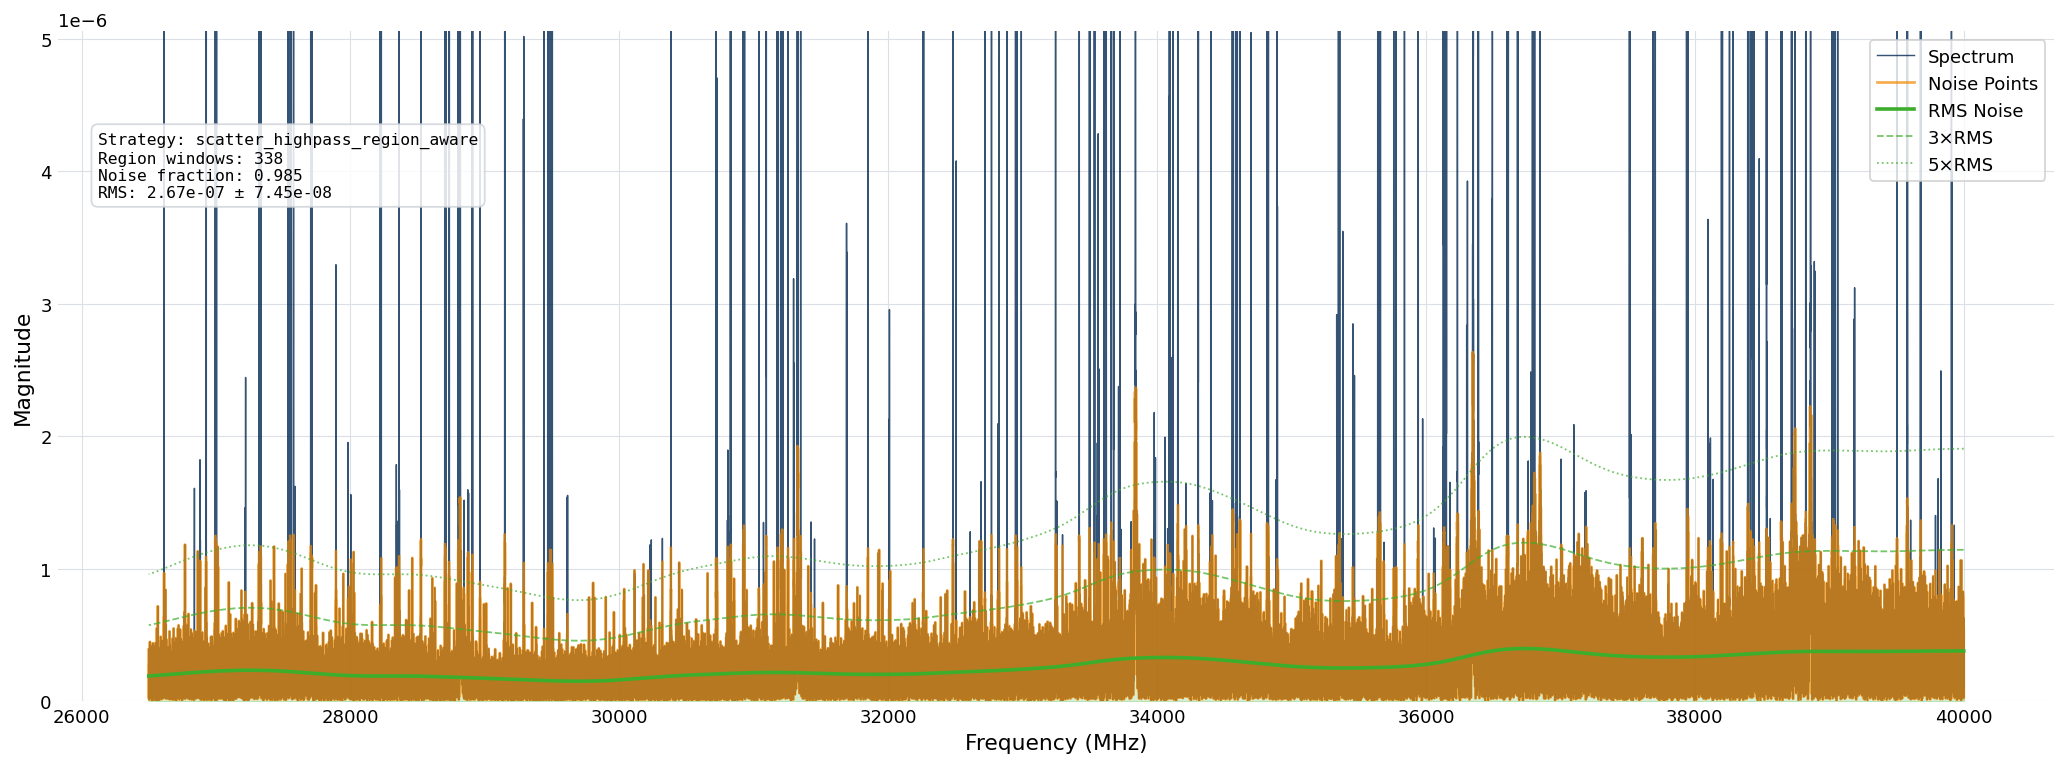
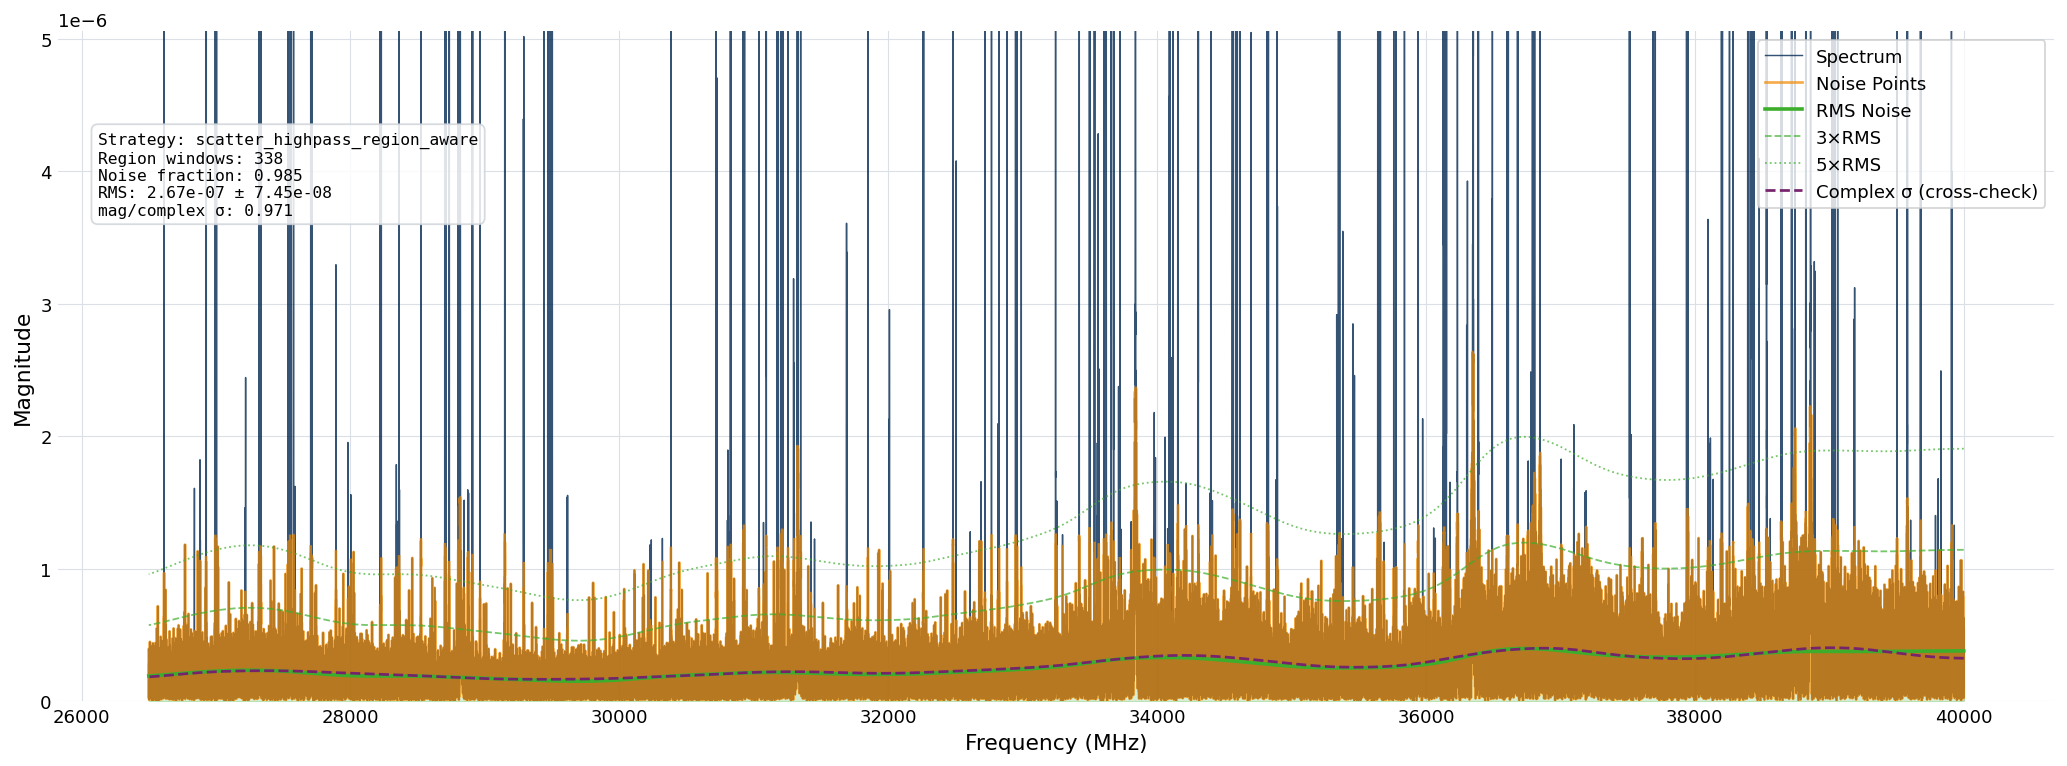
Add a complex-domain sigma cross-check to Stage 2 noise
The scatter estimator works on the magnitude spectrum, where pure noise is
Rayleigh-distributed and a Rician regime correction is needed to recover sigma
-- machinery that carries a small intrinsic low bias. Compute sigma
independently from the real and imaginary parts over the same noise bins, where
pure noise is symmetric zero-mean Gaussian needing no correction, and fold the
magnitude/complex ratio into the noise diagnostics with a divergence warning.
Overlay the complex curve and the ratio on the noise plot. The estimate is a
read-only guardrail against both the magnitude low bias and the one-sided clip;
the primary algorithm is unchanged.

Claude-Session: https://claude.ai/code/session_012itsht2HzvW34wXcnMVEm4

diff --git a/src/ftmwpipeline/preprocessing/noise_estimation.py b/src/ftmwpipeline/preprocessing/noise_estimation.py
@@ -98,6 +98,14 @@ SCATTER_CONVOLVE_MHZ = (
     200.0  # Gaussian σ (MHz) of the 2nd, step-removing pass (0 = off)
 )
 
+# Complex-domain cross-check guardrail: warn when the magnitude σ and the
+# independent Re/Im σ (see ``estimate_noise_complex_scatter``) disagree by more
+# than this fraction. The magnitude estimator runs ~4–6 % below the complex
+# estimate even on clean data (its Rician/pedestal machinery carries an
+# intrinsic low bias the complex domain avoids), so the threshold sits above
+# that expected baseline and fires only on a genuine anomaly.
+SCATTER_COMPLEX_DIVERGENCE_WARN = 0.12
+
 # Fixed mid-regime σ_c/scatter factor used when ``region_aware=False`` (the
 # Rayleigh-to-under-line endpoints span 1.0–1.47; 1.20 is the validated
 # mid-regime compromise — biased ~±15 % in a regime-dependent way, which is
@@ -523,6 +531,100 @@ def estimate_noise_scatter(
     return NoiseResult(rms_noise=sigma, noise_mask=keep, bin_info=bin_info)
 
 
+def estimate_noise_complex_scatter(
+    frequencies: np.ndarray,
+    complex_spectrum: np.ndarray,
+    noise_mask: np.ndarray,
+    *,
+    window_mhz: float = SCATTER_WINDOW_MHZ,
+    smoothing_mhz: float = SCATTER_SMOOTHING_MHZ,
+    smoothing_percentile: float = SCATTER_SMOOTHING_PERCENTILE,
+    convolve_mhz: float = SCATTER_CONVOLVE_MHZ,
+) -> np.ndarray:
+    """Independent complex-domain σ_x estimate, a cross-check on the magnitude one.
+
+    The real and imaginary parts of pure complex-Gaussian noise are each
+    ``N(0, σ_c)`` -- symmetric, zero-mean, with no Rayleigh skew, no leakage
+    pedestal, and no Rician regime to correct for. So over the bins the magnitude
+    pass already classed as noise (``noise_mask``), the two-sided robust MAD of
+    the real and imaginary parts recovers ``σ_c`` directly, and the complex RMS is
+    ``σ_x = σ_c·√2`` -- the same convention as :func:`estimate_noise_scatter`'s
+    ``rms_noise``. The per-region / interpolate / smooth steps mirror that
+    estimator so the curve is comparable bin-for-bin, but because the estimate
+    never enters the magnitude domain it is free of the ~4–6 % low bias the
+    Rician ``C(R)`` correction carries and of the one-sided-clip downside, making
+    it a guardrail against both.
+
+    Unlike :func:`estimate_noise_scatter` this works on the data in its given bin
+    order (the per-region MAD and the index-interpolation are orientation-free;
+    a descending lower-sideband grid keeps each window a contiguous frequency
+    band), so the caller need not sort first.
+
+    Parameters
+    ----------
+    frequencies : np.ndarray
+        Frequency grid (MHz); ascending or descending.
+    complex_spectrum : np.ndarray
+        Complex spectrum on ``frequencies`` (the same array Stage 2 measures on).
+    noise_mask : np.ndarray
+        Boolean mask, True on bins to treat as noise -- normally the magnitude
+        estimator's own ``noise_mask`` so the two estimates share a line set.
+    window_mhz, smoothing_mhz, smoothing_percentile, convolve_mhz :
+        Mirror :func:`estimate_noise_scatter`; pass the resolved Stage 2 knobs so
+        the curve is smoothed identically.
+
+    Returns
+    -------
+    np.ndarray
+        Per-bin complex RMS σ_x on ``frequencies``' bin order.
+    """
+    freqs = np.asarray(frequencies, dtype=float)
+    cs = np.asarray(complex_spectrum)
+    re = np.real(cs).astype(float)
+    im = np.imag(cs).astype(float)
+    mask = np.asarray(noise_mask, dtype=bool)
+    n = freqs.size
+
+    def _quad_sigma(sl: slice, m: np.ndarray) -> float:
+        return 0.5 * (_robust_sigma(re[sl][m]) + _robust_sigma(im[sl][m]))
+
+    if n < 3:
+        flat = _quad_sigma(slice(None), np.ones(n, dtype=bool)) * _QUADRATURE_TO_COMPLEX_RMS
+        return cast(np.ndarray, np.full(n, flat))
+
+    df = abs(float(np.mean(np.diff(freqs))))
+    half = max(1, int(round(0.5 * window_mhz / df)))
+
+    sigma = np.full(n, np.nan)
+    for c in np.arange(0, n, half):
+        lo, hi = max(0, c - half), min(n, c + half)
+        m = mask[lo:hi]
+        if int(m.sum()) < SCATTER_MIN_WINDOW_SAMPLES:
+            continue
+        sigma[lo:hi] = _quad_sigma(slice(lo, hi), m)
+
+    good = np.isfinite(sigma)
+    if good.any():
+        sigma = np.interp(np.arange(n), np.flatnonzero(good), sigma[good])
+    else:
+        fallback = _quad_sigma(slice(None), mask) if mask.any() else _quad_sigma(
+            slice(None), np.ones(n, dtype=bool)
+        )
+        sigma = np.full(n, fallback)
+
+    sigma = sigma * _QUADRATURE_TO_COMPLEX_RMS
+
+    if smoothing_mhz > 0.0:
+        smooth_size = min(max(3, int(round(smoothing_mhz / df)) | 1), n)
+        sigma = percentile_filter(
+            sigma, percentile=float(smoothing_percentile), size=smooth_size, mode="nearest"
+        )
+        if convolve_mhz > 0.0:
+            sigma = _gaussian_smooth_1d(sigma, sigma=convolve_mhz / df)
+
+    return cast(np.ndarray, sigma)
+
+
 def estimate_active_ft_noise(
     freq_mhz: np.ndarray,
     complex_spectrum: np.ndarray,
@@ -566,11 +668,43 @@ def estimate_active_ft_noise(
 
     result = estimate_noise_scatter(sorted_freq, sorted_mag, **scatter_kwargs)
 
+    # Independent complex-domain σ cross-check on the same grid and line set,
+    # folded into bin_info as a guardrail (see SCATTER_COMPLEX_DIVERGENCE_WARN).
+    sorted_cs = np.ascontiguousarray(np.asarray(complex_spectrum)[sort_idx])
+    info = result.bin_info
+    complex_sigma = estimate_noise_complex_scatter(
+        sorted_freq,
+        sorted_cs,
+        np.asarray(result.noise_mask, dtype=bool),
+        window_mhz=float(cast(float, info.get("window_mhz", SCATTER_WINDOW_MHZ))),
+        smoothing_mhz=float(cast(float, info.get("smoothing_mhz", SCATTER_SMOOTHING_MHZ))),
+        smoothing_percentile=float(
+            cast(float, info.get("smoothing_percentile", SCATTER_SMOOTHING_PERCENTILE))
+        ),
+        convolve_mhz=float(cast(float, info.get("convolve_mhz", SCATTER_CONVOLVE_MHZ))),
+    )
+    mag_med = float(np.median(result.rms_noise))
+    cpx_med = float(np.median(complex_sigma))
+    ratio = mag_med / cpx_med if cpx_med > 0 else float("nan")
+    divergence = abs(ratio - 1.0)
+    warn = bool(np.isfinite(divergence) and divergence > SCATTER_COMPLEX_DIVERGENCE_WARN)
+    info["complex_sigma_median"] = cpx_med
+    info["complex_magnitude_ratio"] = ratio
+    info["complex_divergence"] = divergence
+    info["complex_divergence_warn"] = warn
+    if warn:
+        logger.warning(
+            "Stage 2 noise: magnitude σ and complex-domain σ cross-check disagree "
+            "by %.1f%% (magnitude/complex = %.3f); the per-bin σ may be biased.",
+            100.0 * divergence,
+            ratio,
+        )
+
     unsort = np.argsort(sort_idx)
     return NoiseResult(
         rms_noise=np.asarray(result.rms_noise, dtype=float)[unsort],
         noise_mask=np.asarray(result.noise_mask, dtype=bool)[unsort],
-        bin_info=result.bin_info,
+        bin_info=info,
     )
 
 

diff --git a/tests/unit/preprocessing/test_noise_complex_check.py b/tests/unit/preprocessing/test_noise_complex_check.py
@@ -1,0 +1,98 @@
+"""Tests for the complex-domain σ cross-check guardrail.
+
+The real and imaginary parts of pure complex-Gaussian noise are each
+``N(0, σ_c)``: symmetric, zero-mean, no Rayleigh skew/pedestal and no Rician
+regime. So :func:`estimate_noise_complex_scatter` recovers ``σ_x = σ_c·√2``
+nearly unbiased, where the magnitude estimator carries an intrinsic few-percent
+low bias. :func:`estimate_active_ft_noise` folds the comparison into
+``bin_info`` as a guardrail.
+"""
+
+import numpy as np
+import pytest
+
+from ftmwpipeline.preprocessing.noise_estimation import (
+    SCATTER_COMPLEX_DIVERGENCE_WARN,
+    estimate_active_ft_noise,
+    estimate_noise_complex_scatter,
+)
+
+# Realistic active-FT geometry: df = 1/T_active ~ 0.067 MHz/bin (a ~13 us record),
+# so the physical-MHz knobs translate to a production-like number of bins. (A
+# much coarser grid lets the running-median pedestal over-fit the noise and
+# inflates the magnitude estimator's low bias.)
+_N = 60000
+_DF = 1.0 / 15.0
+_F_LO = 26500.0
+_F_HI = _F_LO + _DF * (_N - 1)
+_SIGMA_C = 1.0
+_TRUE_RMS = _SIGMA_C * np.sqrt(2.0)
+
+
+def _freqs(ascending: bool = True) -> np.ndarray:
+    f = np.linspace(_F_LO, _F_HI, _N)
+    return f if ascending else f[::-1]
+
+
+def _complex_noise(seed: int) -> np.ndarray:
+    rng = np.random.default_rng(seed)
+    return rng.normal(0.0, _SIGMA_C, _N) + 1j * rng.normal(0.0, _SIGMA_C, _N)
+
+
+def _with_lines(cs: np.ndarray, amp: float) -> np.ndarray:
+    """Add a few strong complex Lorentzian lines to a noise spectrum."""
+    out = cs.copy()
+    idx = np.arange(_N)
+    for pos in (_N // 5, _N // 2, 4 * _N // 5):
+        lor = amp / (1.0 + ((idx - pos) / 3.0) ** 2)
+        out += lor * np.exp(1j * 0.7)  # arbitrary fixed phase
+    return out
+
+
+def test_complex_scatter_unbiased_on_pure_noise():
+    cs = _complex_noise(0)
+    sigma = estimate_noise_complex_scatter(
+        _freqs(), cs, np.ones(_N, dtype=bool)
+    )
+    # Within a few percent of the true complex RMS -- the magnitude estimator
+    # is ~4% low here, the complex one is not.
+    assert np.median(sigma) == pytest.approx(_TRUE_RMS, rel=0.03)
+
+
+def test_complex_scatter_orientation_free():
+    """A descending grid needs no pre-sort: the estimate is the same data."""
+    cs = _complex_noise(1)
+    asc = estimate_noise_complex_scatter(_freqs(True), cs, np.ones(_N, dtype=bool))
+    desc = estimate_noise_complex_scatter(
+        _freqs(False), cs[::-1], np.ones(_N, dtype=bool)
+    )
+    assert np.median(asc) == pytest.approx(np.median(desc), rel=1e-3)
+
+
+def test_complex_scatter_ignores_masked_lines():
+    """Strong lines, when masked out, do not inflate the complex estimate."""
+    cs = _with_lines(_complex_noise(2), amp=200.0)
+    # Mask the line cores (and a small skirt) as the magnitude pass would.
+    mask = np.ones(_N, dtype=bool)
+    for pos in (_N // 5, _N // 2, 4 * _N // 5):
+        mask[pos - 30 : pos + 30] = False
+    sigma = estimate_noise_complex_scatter(_freqs(), cs, mask)
+    assert np.median(sigma) == pytest.approx(_TRUE_RMS, rel=0.05)
+
+
+def test_active_ft_noise_carries_complex_diagnostic():
+    cs = _complex_noise(3)
+    result = estimate_active_ft_noise(_freqs(), cs)
+    info = result.bin_info
+    for key in (
+        "complex_sigma_median",
+        "complex_magnitude_ratio",
+        "complex_divergence",
+        "complex_divergence_warn",
+    ):
+        assert key in info
+    # On clean noise the magnitude estimator sits slightly below the complex one
+    # but well inside the warn threshold.
+    assert 0.85 < info["complex_magnitude_ratio"] <= 1.05
+    assert info["complex_divergence"] < SCATTER_COMPLEX_DIVERGENCE_WARN
+    assert info["complex_divergence_warn"] is False

diff --git a/src/ftmwpipeline/visualization/noise_visualization.py b/src/ftmwpipeline/visualization/noise_visualization.py
@@ -12,7 +12,14 @@ import matplotlib.pyplot as plt
 import numpy as np
 
 from ..preprocessing.noise_estimation import NoiseResult
-from .report_style import AGGIE_BLUE, POPPY, QUAD, apply_bare_style, resolve_title
+from .report_style import (
+    AGGIE_BLUE,
+    PINOT,
+    POPPY,
+    QUAD,
+    apply_bare_style,
+    resolve_title,
+)
 
 
 def plot_noise_estimation(
@@ -23,6 +30,7 @@ def plot_noise_estimation(
     figsize: Tuple[float, float] = (16, 6),
     title: Optional[str] = None,
     show_noise_points: bool = True,
+    complex_rms_noise: Optional[np.ndarray] = None,
 ) -> plt.Figure:
     """
     Create the diagnostic plot for noise estimation.
@@ -46,6 +54,10 @@ def plot_noise_estimation(
         Custom title. ``None`` uses the default; ``""`` suppresses it.
     show_noise_points : bool, default=True
         Whether to highlight noise points
+    complex_rms_noise : np.ndarray, optional
+        The independent complex-domain σ_x cross-check (from
+        :func:`ftmwpipeline.preprocessing.noise_estimation.estimate_noise_complex_scatter`),
+        overlaid as a guardrail when supplied.
 
     Returns:
     --------
@@ -103,6 +115,17 @@ def plot_noise_estimation(
     )
     ax.fill_between(freq_mhz, 0, noise_result.rms_noise, alpha=0.2, color=QUAD)
 
+    # Independent complex-domain σ cross-check (guardrail overlay)
+    if complex_rms_noise is not None:
+        ax.plot(
+            freq_mhz,
+            np.asarray(complex_rms_noise),
+            color=PINOT,
+            linestyle="--",
+            linewidth=1.5,
+            label="Complex σ (cross-check)",
+        )
+
     # Set limits and labels
     ax.set_ylim(0, y_max)
     ax.set_xlabel("Frequency (MHz)", fontsize=12)
@@ -141,5 +164,10 @@ def _compile_noise_statistics_summary(noise_result: NoiseResult) -> str:
     rms_mean = np.mean(noise_result.rms_noise)
     rms_std = np.std(noise_result.rms_noise)
     stats.append(f"RMS: {rms_mean:.2e} ± {rms_std:.2e}")
+
+    ratio = info.get("complex_magnitude_ratio")
+    if isinstance(ratio, (int, float)) and np.isfinite(ratio):
+        flag = " (!)" if info.get("complex_divergence_warn") else ""
+        stats.append(f"mag/complex σ: {ratio:.3f}{flag}")
 
     return "\n".join(stats)

diff --git a/src/ftmwpipeline/_internal/stage2_impl.py b/src/ftmwpipeline/_internal/stage2_impl.py
@@ -334,6 +334,21 @@ def visualize_noise_impl(
             "Noise visualization not available - visualization module missing"
         )
 
+    # Independent complex-domain σ cross-check, overlaid as a guardrail. Computed
+    # on the same active grid and line set the persisted σ was measured on.
+    from ..preprocessing.noise_estimation import estimate_noise_complex_scatter
+
+    info = noise_result.bin_info
+    complex_rms = estimate_noise_complex_scatter(
+        complex_ft.freq_array,
+        complex_ft.complex_spectrum,
+        noise_result.noise_mask,
+        window_mhz=float(info.get("window_mhz", 80.0)),
+        smoothing_mhz=float(info.get("smoothing_mhz", 800.0)),
+        smoothing_percentile=float(info.get("smoothing_percentile", 50.0)),
+        convolve_mhz=float(info.get("convolve_mhz", 200.0)),
+    )
+
     # Set parameter defaults
     plot_params: Dict[str, Any] = {
         "y_max_factor": y_max_factor if y_max_factor is not None else 20.0,
@@ -341,6 +356,7 @@ def visualize_noise_impl(
         "show_noise_points": (
             show_noise_points if show_noise_points is not None else True
         ),
+        "complex_rms_noise": complex_rms,
     }
 
     # Generate title if not provided

diff --git a/docs/source/stage2_noise.rst b/docs/source/stage2_noise.rst
@@ -191,5 +191,18 @@ is the leakage-pedestal contamination the scatter estimator is designed to
 avoid. The same figure is available from Python through
 :func:`ftmwpipeline.api.visualize_noise` and ``Pipeline.visualize_noise``.
 
+Complex-domain cross-check
+--------------------------
+
+The estimator works on the magnitude spectrum, where pure noise is
+Rayleigh-distributed and a small regime correction is needed to recover σ. As an
+independent guardrail, Stage 2 also computes σ directly from the real and
+imaginary parts over the same noise bins — for pure noise these are symmetric,
+zero-mean Gaussian, needing no regime correction — and records the ratio of the
+two estimates in the diagnostics (``mag/complex σ`` on ``noise show``, with the
+complex curve overlaid). The magnitude estimate normally sits a few percent below
+the complex one; a larger divergence is flagged with a warning, indicating the
+per-bin σ may be biased on that spectrum.
+
 The stored per-bin σ is the input to :doc:`Stage 3 <stage3_peaks>`, which
 thresholds the signal-to-noise ratio of candidate peaks against it.
